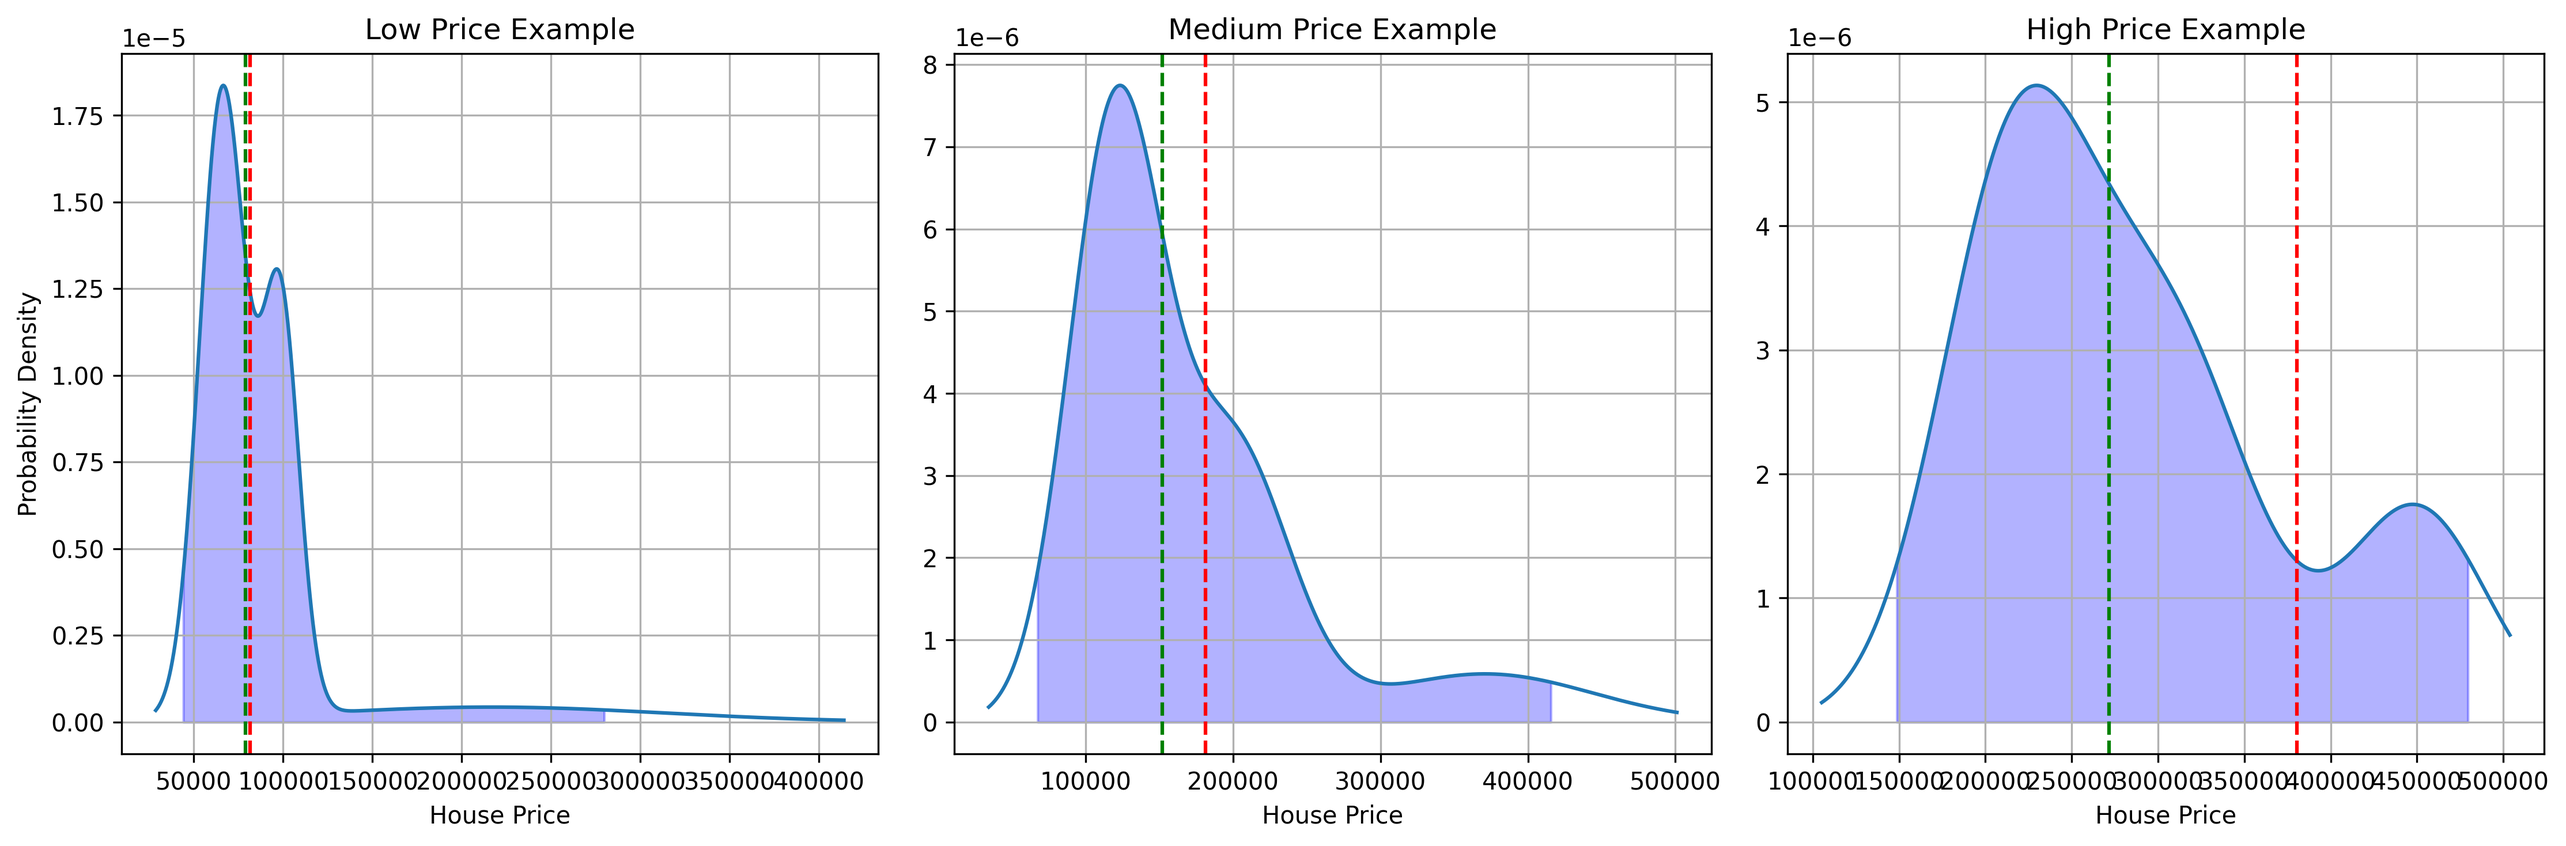
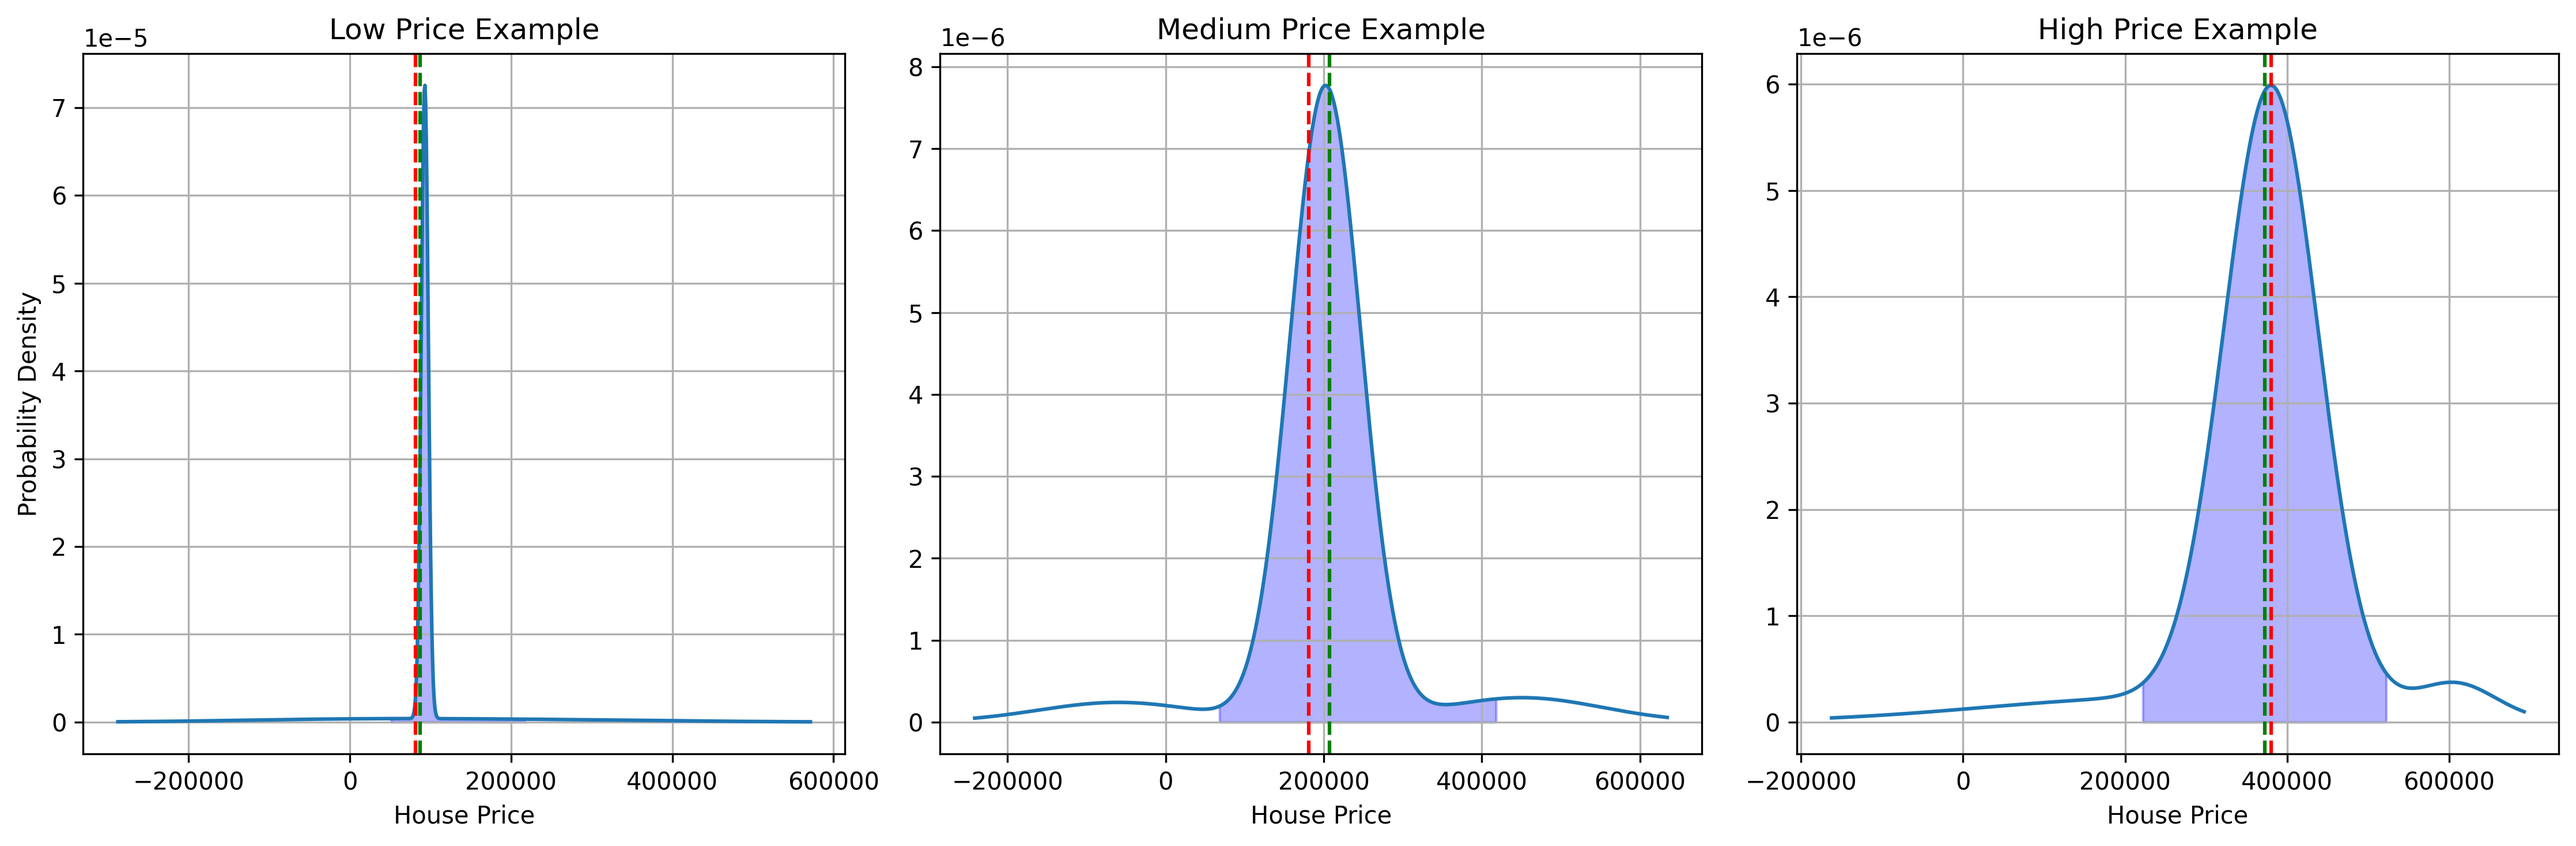
Enable conformal calibration for smoothed distributions

diff --git a/prob_gbt/prob_gbt.py b/prob_gbt/prob_gbt.py
@@ -64,6 +64,7 @@ class ProbGBT:
         self.quantiles = None
         self.conformity_scores = None
         self.is_calibrated = False
+        self._last_pdfs = None
         
     def _generate_non_uniform_quantiles(self):
         """
@@ -559,12 +560,10 @@ class ProbGBT:
             Features to predict on.
         confidence_level : float, default=0.95
             Confidence level for the interval (between 0 and 1).
-        method : str, default='gmm'
+        method : str, default='spline'
             Method to use for PDF smoothing ('gmm' or 'spline').
-            Only used if the model is not calibrated.
         num_points : int, default=1000
             Number of points to use for the PDF.
-            Only used if the model is not calibrated.
             
         Returns:
         --------
@@ -586,12 +585,10 @@ class ProbGBT:
         lower_q = (1 - confidence_level) / 2
         upper_q = 1 - lower_q
         
-        # Find the closest available quantiles in our model
-        # For increased accuracy, we can use interpolation between quantiles if needed
+        # Check if we should use the direct quantile approach for calibrated models
+        # This is more reliable for ensuring proper coverage
         if self.calibrate and self.is_calibrated:
-            # For calibrated models, we need to be more careful with quantile selection
-            # Directly use the appropriate quantiles without interpolation to preserve 
-            # the conformal guarantees
+            # Find the closest available quantiles in our model
             lower_idx = np.argmin(np.abs(self.quantiles - lower_q))
             upper_idx = np.argmin(np.abs(self.quantiles - upper_q))
             
@@ -607,11 +604,25 @@ class ProbGBT:
             lower_bounds = quantile_preds[:, lower_idx]
             upper_bounds = quantile_preds[:, upper_idx]
             
+            # Now get smoothed PDFs based on calibrated quantiles for better visualization
+            # But use the direct quantile predictions for the intervals
+            pdfs = []
+            for i in tqdm(range(quantile_preds.shape[0]), desc="Processing samples"):
+                # Get smoothed PDF (only compute for visualization - not for intervals)
+                x_values, pdf_values, _, _ = self._get_smoothed_pdf(
+                    quantile_preds, i, num_points=num_points, method=method
+                )
+                pdfs.append((x_values, pdf_values))
+            
+            # Store PDFs as a class attribute for later access
+            self._last_pdfs = pdfs
+            
             return lower_bounds, upper_bounds
         
-        # If not calibrated, use the original PDF approach for best accuracy
+        # If not calibrated, use smoothed approach
         lower_bounds = []
         upper_bounds = []
+        pdfs = []
         
         # Add tqdm progress bar
         for i in tqdm(range(quantile_preds.shape[0]), desc="Processing samples"):
@@ -620,16 +631,12 @@ class ProbGBT:
                 quantile_preds, i, num_points=num_points, method=method
             )
             
-            # Compute the quantile values corresponding to the confidence interval
-            lower_q = (1 - confidence_level) / 2
-            upper_q = 1 - (1 - confidence_level) / 2
+            # Store PDF for later reference
+            pdfs.append((x_values, pdf_values))
             
-            # Using 'right' side to find the correct index for lower bound
-            # (the first index where CDF value is >= lower_quantile)
-            lower_idx = np.searchsorted(cdf_values, lower_q, side='right')
-            
-            # Using 'left' side to find the correct index for upper bound
-            # (the first index where CDF value is >= upper_quantile)
+            # For both bounds, use 'left' side for consistent quantile extraction
+            # This finds the smallest x value such that CDF(x) >= target_probability
+            lower_idx = np.searchsorted(cdf_values, lower_q, side='left')
             upper_idx = np.searchsorted(cdf_values, upper_q, side='left')
             
             # Ensure indices are within bounds
@@ -642,6 +649,9 @@ class ProbGBT:
             
             lower_bounds.append(lower_bound)
             upper_bounds.append(upper_bound)
+        
+        # Store PDFs as a class attribute for later access
+        self._last_pdfs = pdfs
         
         return np.array(lower_bounds), np.array(upper_bounds)
     
@@ -1054,9 +1064,9 @@ class ProbGBT:
         """
         Predict both calibrated confidence intervals and a smooth probability distribution.
         
-        This method combines the best of both approaches:
+        This method provides a complete probabilistic forecast including:
         1. Calibrated intervals with proper coverage guarantees
-        2. Smooth probability distribution for visualization
+        2. Smooth probability distribution using the same calibrated quantiles
         
         Parameters:
         -----------
@@ -1075,32 +1085,71 @@ class ProbGBT:
             - 'intervals': A dict mapping confidence levels to (lower_bounds, upper_bounds) tuples
             - 'pdf': A list of tuples (x_values, pdf_values) for each sample
             - 'mean': Mean prediction for each sample
-            - 'median': Median prediction for each sample
         """
         if confidence_levels is None:
             confidence_levels = [0.5, 0.8, 0.9, 0.95, 0.99]
         
         results = {}
         
-        # Get mean/median predictions
+        # Get mean predictions
         results['mean'] = self.predict(X)
         
         # Get calibrated intervals for each confidence level
         intervals = {}
-        for level in confidence_levels:
-            lower, upper = self.predict_interval(X, confidence_level=level)
-            intervals[level] = (lower, upper)
+        
+        # The level=0.95 will trigger computation of PDFs which we'll reuse
+        first_level = confidence_levels[0]
+        lower, upper = self.predict_interval(X, confidence_level=first_level, method=method, num_points=num_points)
+        intervals[first_level] = (lower, upper)
+        
+        # For calibrated models, get the remaining intervals using direct quantile approach
+        # This is more consistent with the calibration guarantees
+        if self.calibrate and self.is_calibrated:
+            for level in confidence_levels[1:]:
+                lower, upper = self.predict_interval(X, confidence_level=level, method=method, num_points=num_points)
+                intervals[level] = (lower, upper)
+        else:
+            # For uncalibrated models, we can use the smoothed PDFs for all intervals
+            # Get PDFs stored from the first predict_interval call
+            pdfs = self._last_pdfs
+            
+            # For each confidence level (except the first one we already computed)
+            for level in confidence_levels[1:]:
+                lower_q = (1 - level) / 2
+                upper_q = 1 - lower_q
+                
+                lower_bounds = []
+                upper_bounds = []
+                
+                # Extract intervals from the stored PDFs
+                for i, (x_values, pdf_values) in enumerate(pdfs):
+                    # Recompute CDF (since it's not stored in _last_pdfs)
+                    cdf_values = cumulative_trapezoid(pdf_values, x_values, initial=0)
+                    
+                    # Normalize CDF to ensure it ends at 1.0
+                    if cdf_values[-1] > 0:
+                        cdf_values /= cdf_values[-1]
+                    
+                    # Find the smallest x value such that CDF(x) >= target_probability
+                    lower_idx = np.searchsorted(cdf_values, lower_q, side='left')
+                    upper_idx = np.searchsorted(cdf_values, upper_q, side='left')
+                    
+                    # Ensure indices are within bounds
+                    lower_idx = max(0, min(lower_idx, len(x_values) - 1))
+                    upper_idx = max(0, min(upper_idx, len(x_values) - 1))
+                    
+                    # Get the x values at those indices
+                    lower_bound = x_values[lower_idx]
+                    upper_bound = x_values[upper_idx]
+                    
+                    lower_bounds.append(lower_bound)
+                    upper_bounds.append(upper_bound)
+                
+                intervals[level] = (np.array(lower_bounds), np.array(upper_bounds))
+        
         results['intervals'] = intervals
         
-        # Get smooth distribution (decide whether to use calibrated or uncalibrated)
-        # For visualization purposes, uncalibrated often gives smoother curves
-        if self.calibrate and self.is_calibrated:
-            # Use calibrated for intervals but uncalibrated for PDFs
-            results['pdf'] = self.predict_pdf(X, method=method, num_points=num_points, use_calibration=False)
-            # Also include calibrated PDFs for comparison
-            results['pdf_calibrated'] = self.predict_pdf(X, method=method, num_points=num_points, use_calibration=True)
-        else:
-            # Just use the regular PDF if no calibration is available
-            results['pdf'] = self.predict_pdf(X, method=method, num_points=num_points)
+        # Use the PDFs that were already computed during predict_interval
+        results['pdf'] = self._last_pdfs
         
         return results 

diff --git a/prob_gbt/example.py b/prob_gbt/example.py
@@ -43,11 +43,11 @@ def main():
     # Initialize and train the ProbGBT model
     print("\nTraining ProbGBT model...")
     model = ProbGBT(
-        num_quantiles=100, # Use less quantiles to speed up training
-        iterations=500, # Use less iterations to reduce overfitting
+        num_quantiles=100,
+        iterations=3000, # If not calibrated, use less iterations to reduce overfitting
         subsample=1.0,
         random_seed=1234,
-        calibrate=False,
+        calibrate=True, # Enable conformal calibration (uses some of the training data to calibrate the model), 
         train_separate_models=False # Train a single model for all quantiles
     )
 
@@ -56,11 +56,15 @@ def main():
         y_train, 
         cat_features=cat_features, 
         eval_set=(X_val, y_val), 
+        calibration_set=None, # Automatically use 20% of training data for calibration
         use_best_model=True, 
         verbose=True
     )
 
     # Make predictions
+    # Define smoothing method
+    smoothing_method = 'gmm' # Use GMM smoothing on top of spline for better curves (spline by default)
+
     print("\nMaking predictions...")
     y_pred = model.predict(X_test)
 
@@ -70,7 +74,7 @@ def main():
 
     # Predict confidence intervals
     print("\nPredicting confidence intervals...")
-    lower_bounds, upper_bounds = model.predict_interval(X_test, confidence_level=0.95, method='gmm')
+    lower_bounds, upper_bounds = model.predict_interval(X_test, confidence_level=0.95, method=smoothing_method)
     
     # Plot predictions vs actual for a subset of test samples
     print("\nPlotting predictions vs actual values...")
@@ -95,7 +99,7 @@ def main():
     # Plot PDF for a single example
     print("\nPlotting probability density function for a single example...")
     sample_idx = sample_indices[0]
-    pdfs = model.predict_pdf(X_test.iloc[[sample_idx]], method='gmm')
+    pdfs = model.predict_pdf(X_test.iloc[[sample_idx]], method=smoothing_method)
     x_values, pdf_values = pdfs[0]
 
     plt.figure(figsize=(10, 6))
@@ -134,8 +138,7 @@ def main():
     
     # Second pass to plot without y-axis limit adjustments
     for i, idx in enumerate(diverse_indices):
-        pdfs = model.predict_pdf(X_test.iloc[[idx]], method='gmm')
-        x_values, pdf_values = pdfs[0]
+        pdfs = model.predict_pdf(X_test.iloc[[idx]], method=smoothing_method)
         
         axes[i].plot(x_values, pdf_values, label='PDF')
         axes[i].axvline(x=y_test[idx], color='r', linestyle='--', label='Actual')
@@ -258,7 +261,7 @@ def main():
     print("Calculating coverage for different confidence levels...")
     for conf_level in tqdm(confidence_levels, desc="Evaluating confidence levels"):
         # Get interval bounds for this confidence level using the same method
-        lower, upper = model.predict_interval(X_test, confidence_level=conf_level, method='gmm')
+        lower, upper = model.predict_interval(X_test, confidence_level=conf_level, method=smoothing_method)
         
         # Calculate coverage
         coverage = np.mean((y_test >= lower) & (y_test <= upper))
